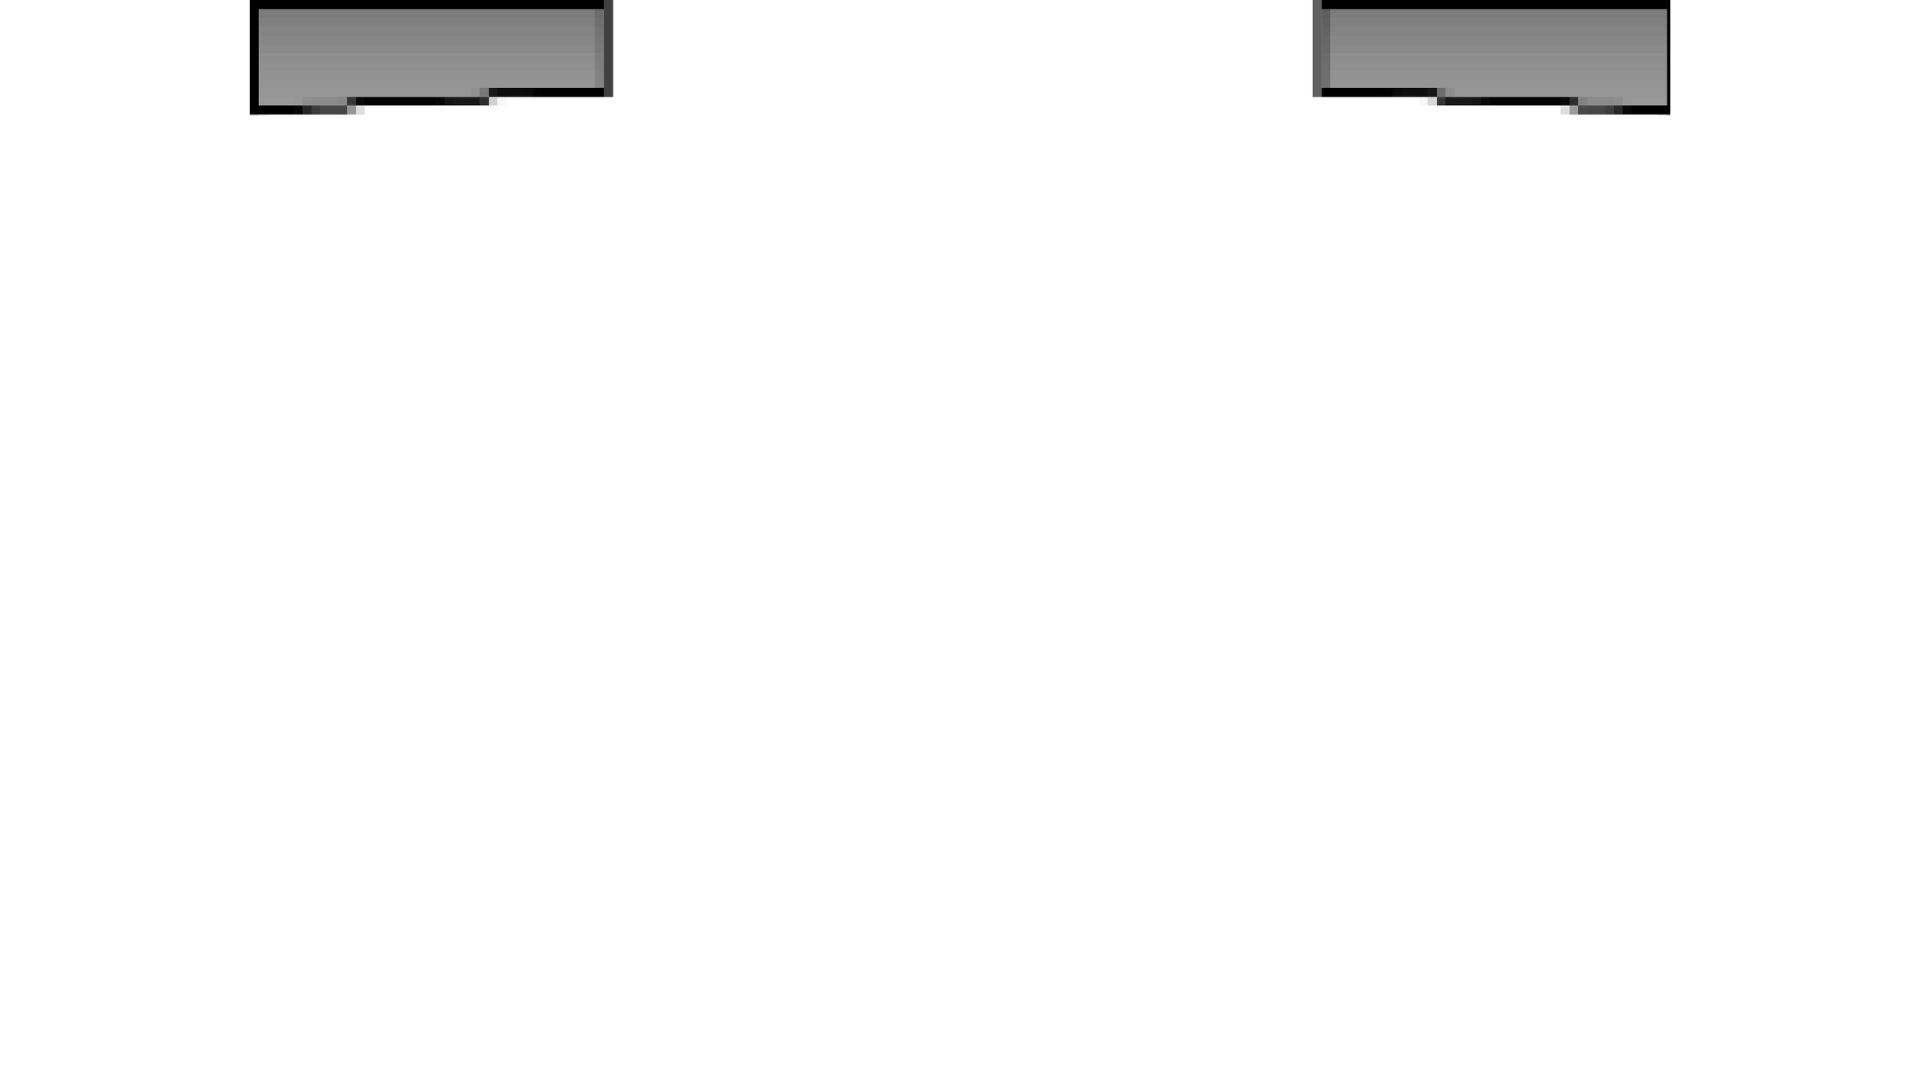
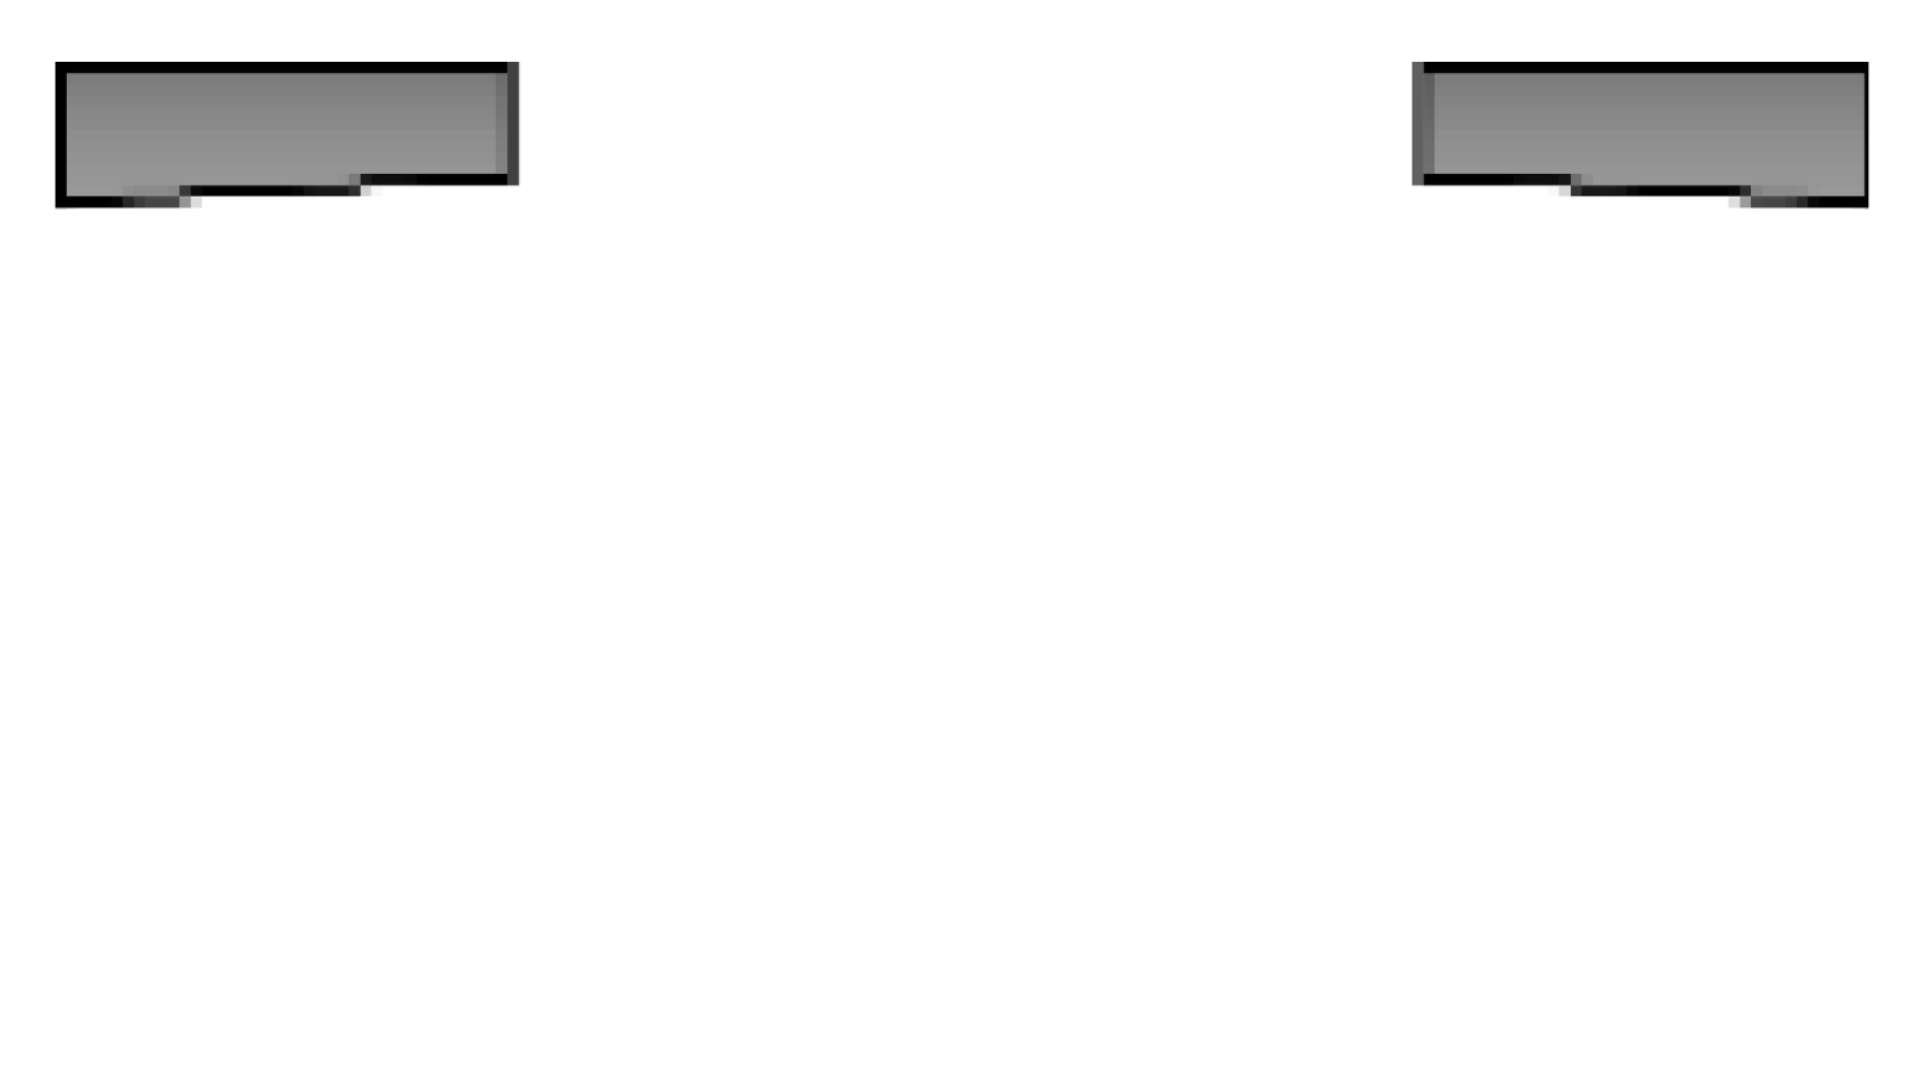
UI

Changed region(s): [[0.6562, 0.0, 1.0, 0.2139], [0.0312, 0.0, 0.3438, 0.2139]]

diff --git a/Cliente_Main/Cliente/src/Vista/Registro.java b/Cliente_Main/Cliente/src/Vista/Registro.java
@@ -207,5 +207,65 @@ public class Registro extends JFrame {
 
         select.add(opc);
         fondo.add(select);
+        UI();
+    }
+    
+    private void UI(){
+        // Crear el panel select con posición absoluta
+        JPanel select = new JPanel();
+        select.setOpaque(false); // Hacer el panel transparente para mostrar el fondo
+        select.setLayout(null); // Establecer LayoutManager nulo para posición absoluta
+        select.setBounds(0, 0, 1920, 1080); // Establecer la posición y tamaño del panel
+
+        JLabel opc = new JLabel();
+        ImageIcon im0 = new ImageIcon("src/Vista/UI/ui_vid");
+        opc.setIcon(im0);
+        opc.setBounds(0, 0, 1920, 1080); // Establecer la posición y tamaño de la etiqueta
+        
+        select.add(opc);
+        fondo.add(select);
+        
+        Map<Integer, String> Local = new HashMap<>();
+        Local.put(1, "src/Vista/UI/Vida/L/1.png");
+        Local.put(2, "src/Vista/UI/Vida/L/2.png");
+        Local.put(3, "src/Vista/UI/Vida/L/3.png");
+        Local.put(4, "src/Vista/UI/Vida/L/4.png");
+        Local.put(5, "src/Vista/UI/Vida/L/5.png");
+        Local.put(6, "src/Vista/UI/Vida/L/6.png");
+        
+        Map<Integer, String> Visitante = new HashMap();
+        Visitante.put(1, "src/Vista/UI/Vida/R/1.png");
+        Visitante.put(2, "src/Vista/UI/Vida/R/2.png");
+        Visitante.put(3, "src/Vista/UI/Vida/R/3.png");
+        Visitante.put(4, "src/Vista/UI/Vida/R/4.png");
+        Visitante.put(5, "src/Vista/UI/Vida/R/5.png");
+        Visitante.put(6, "src/Vista/UI/Vida/R/6.png");
+        
+        
+        JPanel vida = new JPanel();
+        vida.setOpaque(false); // Hacer el panel transparente para mostrar el fondo
+        vida.setLayout(null); // Establecer LayoutManager nulo para posición absoluta
+        vida.setBounds(0, 0, 1920, 1080); // Establecer la posición y tamaño del panel
+
+        JLabel heart = new JLabel();
+        ImageIcon local = new ImageIcon(Local.get(1));
+        heart.setIcon(local);
+        heart.setBounds(0, 0, 1920, 1080);
+        
+        vida.add(heart);
+        fondo.add(vida);
+        
+        JPanel vida0 = new JPanel();
+        vida0.setOpaque(false); // Hacer el panel transparente para mostrar el fondo
+        vida0.setLayout(null); // Establecer LayoutManager nulo para posición absoluta
+        vida0.setBounds(0, 0, 1920, 1080); // Establecer la posición y tamaño del panel
+
+        JLabel heart0 = new JLabel();
+        ImageIcon Visit = new ImageIcon(Visitante.get(1));
+        heart0.setIcon(Visit);
+        heart0.setBounds(0, 0, 1920, 1080);
+        
+        vida.add(heart0);
+        fondo.add(vida);
     }
 }
